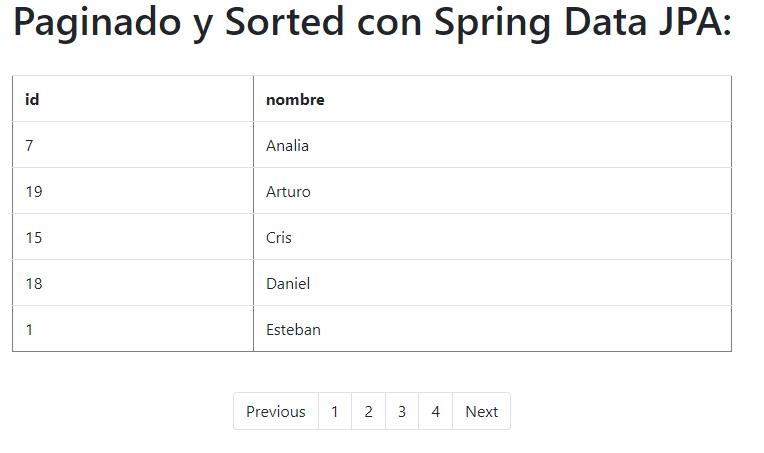
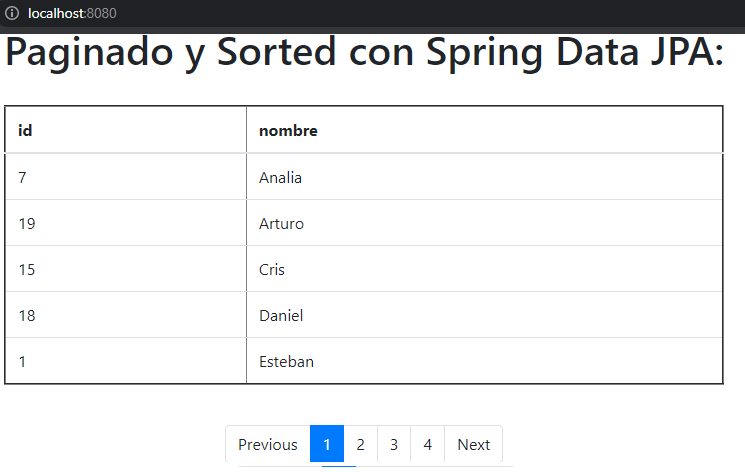
refactor and added active item from pagination nav

diff --git a/src/main/resources/static/index.html b/src/main/resources/static/index.html
@@ -1,68 +1,9 @@
 <html>
 <head>
     <link rel="stylesheet" href="https://stackpath.bootstrapcdn.com/bootstrap/4.3.1/css/bootstrap.min.css" integrity="sha384-ggOyR0iXCbMQv3Xipma34MD+dH/1fQ784/j6cY/iJTQUOhcWr7x9JvoRxT2MZw1T" crossorigin="anonymous">
-    <script>
-
-        var page = {
-            content: [],
-            currentPage: 0,
-            totalPages: 0
-        };
-
-
-        async function getPersonasByPageAndSort(currentPage, sortField) {
-            page.currentPage = currentPage;
-
-            var response = await fetch("/api/v1/personas/2?pageNumber=" + page.currentPage + "&sortField=" + sortField);
-            var jsonResponse = await response.json();
-            page.content = jsonResponse.content;
-            page.totalPages = jsonResponse.totalPages;
-
-            var personasTable = document.getElementById("personas-table");
-            personasTable.innerHTML = '';
-            var trHeader = document.createElement('tr');
-            var tBody = document.createElement('tBody');
-
-            createTableHeaders(trHeader);
-
-            tBody.appendChild(trHeader);
-
-            createTableData(tBody);
-
-            personasTable.appendChild(tBody);
-        }
-
-        function createTableHeaders(tr) {
-            for (var i = 0; i < Object.keys(page.content[0]).length; i++) {
-               var th = document.createElement('th');
-               th.appendChild(document.createTextNode(Object.keys(page.content[0])[i]));
-               tr.appendChild(th);
-            }
-        }
-
-        function createTableData(tBody) {
-            for (var i = 0; i < page.content.length; i++) {
-                    var obj = page.content[i];
-                    var trData = document.createElement('tr');
-                    for (var j = 0; j < Object.keys(obj).length; j++) {
-                        var td = document.createElement('td');
-                        td.appendChild(document.createTextNode(obj[Object.keys(obj)[j]]));
-                        trData.appendChild(td);
-                    }
-                tBody.appendChild(trData);
-            }
-        }
-
-        function getPreviousPage() {
-            return (page.currentPage - 1) < 0 ? 0 : page.currentPage - 1;
-        }
-
-        function getNextPage() {
-            return (page.currentPage + 1) < page.totalPages ? page.currentPage + 1 : page.currentPage;
-        }
-
-        getPersonasByPageAndSort(page.currentPage, 'nombre');
-    </script>
+    <script src="page-service.js"></script>
+    <script src="table-utils.js"></script>
+    <script src="app.js"></script>
 </head>
 
 <body>
@@ -71,7 +12,7 @@
         <div class="col-md-auto">
             <h1>Paginado y Sorted con Spring Data JPA:</h1>
             <br>
-            <table id="personas-table" border="1" class="table">
+            <table id="personas-table" border="2" class="table table-hover">
                 <!-- elements created dinamically -->
             </table>
             <br>
@@ -80,13 +21,13 @@
     <div class="row justify-content-md-center">
         <div class="col-md-auto">
             <nav aria-label="Page navigation example">
-                <ul class="pagination">
-                    <li class="page-item"><a class="page-link" onclick="getPersonasByPageAndSort(getPreviousPage(), 'nombre')">Previous</a></li>
-                    <li class="page-item"><a class="page-link" onclick="getPersonasByPageAndSort(0, 'nombre')">1</a></li>
-                    <li class="page-item"><a class="page-link" onclick="getPersonasByPageAndSort(1, 'nombre')">2</a></li>
-                    <li class="page-item"><a class="page-link" onclick="getPersonasByPageAndSort(2, 'nombre')">3</a></li>
-                    <li class="page-item"><a class="page-link" onclick="getPersonasByPageAndSort(3, 'nombre')">4</a></li>
-                    <li class="page-item"><a class="page-link" onclick="getPersonasByPageAndSort(getNextPage(), 'nombre')">Next</a></li>
+                <ul id="page-items" class="pagination">
+                    <li class="page-item"><a class="page-link" onclick="getPageByPageNumber(getPreviousPage())">Previous</a></li>
+                    <li id="item-0" class="page-item"><a class="page-link" onclick="getPageByPageNumber(0)">1</a></li>
+                    <li id="item-1" class="page-item"><a class="page-link" onclick="getPageByPageNumber(1)">2</a></li>
+                    <li id="item-2" class="page-item"><a class="page-link" onclick="getPageByPageNumber(2)">3</a></li>
+                    <li id="item-3" class="page-item"><a class="page-link" onclick="getPageByPageNumber(3)">4</a></li>
+                    <li class="page-item"><a class="page-link" onclick="getPageByPageNumber(getNextPage())">Next</a></li>
                 </ul>
             </nav>
         </div>

diff --git a/src/main/resources/static/app.js b/src/main/resources/static/app.js
@@ -1,0 +1,35 @@
+var page = null;
+
+async function getPageByPageNumber(pageNumber) {
+
+    page = await getPage({page: pageNumber, sortField: 'nombre'});
+
+    var personasTable = document.getElementById("personas-table");
+    cleanTable(personasTable);
+
+    personasTable.appendChild(createTHeadFromObject(page.content[0]));
+    personasTable.appendChild(createTBodyFromObjectArray(page.content));
+    setActivePageItem(pageNumber);
+}
+
+function getPreviousPage() {
+    return (page.number - 1) < 0 ? 0 : page.number - 1;
+}
+
+function getNextPage() {
+    return (page.number + 1) < page.totalPages ? page.number + 1 : page.number;
+}
+
+function setActivePageItem(pageNumber) {
+    unSetPreviousActiveItem();
+    var pageItem = document.getElementById("item-" + pageNumber);
+    pageItem.classList.add("active");
+}
+
+function unSetPreviousActiveItem() {
+    var pageItems = document.getElementById("page-items");
+    var pageItemsArray = pageItems.querySelectorAll('.page-item');
+    pageItemsArray.forEach(pageItem => pageItem.classList.remove("active"))
+}
+
+getPageByPageNumber(0);

diff --git a/src/main/resources/static/table-utils.js b/src/main/resources/static/table-utils.js
@@ -1,0 +1,30 @@
+function createTHeadFromObject(obj) {
+    var tHead = document.createElement('tHead');
+    var tr = document.createElement('tr');
+    for (var i = 0; i < Object.keys(obj).length; i++) {
+       var th = document.createElement('th');
+       th.appendChild(document.createTextNode(Object.keys(obj)[i]));
+       tr.appendChild(th);
+    }
+    tHead.appendChild(tr);
+    return tHead;
+}
+
+function createTBodyFromObjectArray(objArray) {
+    var tBody = document.createElement('tBody');
+    for (var i = 0; i < objArray.length; i++) {
+            var obj = objArray[i];
+            var trData = document.createElement('tr');
+            for (var j = 0; j < Object.keys(obj).length; j++) {
+                var td = document.createElement('td');
+                td.appendChild(document.createTextNode(obj[Object.keys(obj)[j]]));
+                trData.appendChild(td);
+            }
+        tBody.appendChild(trData);
+    }
+    return tBody;
+}
+
+function cleanTable(table) {
+    table.innerHTML = '';
+}

diff --git a/src/main/resources/static/page-service.js b/src/main/resources/static/page-service.js
@@ -1,0 +1,6 @@
+async function getPage(props) {
+    const url = "/api/v1/personas/2";
+    var response = await fetch(url + "?pageNumber=" + props.page + "&sortField=" + props.sortField);
+    if(response.status != 200) throw Error("Error api call to " + url + " [" + response.status + "]");
+    return await response.json();
+}
